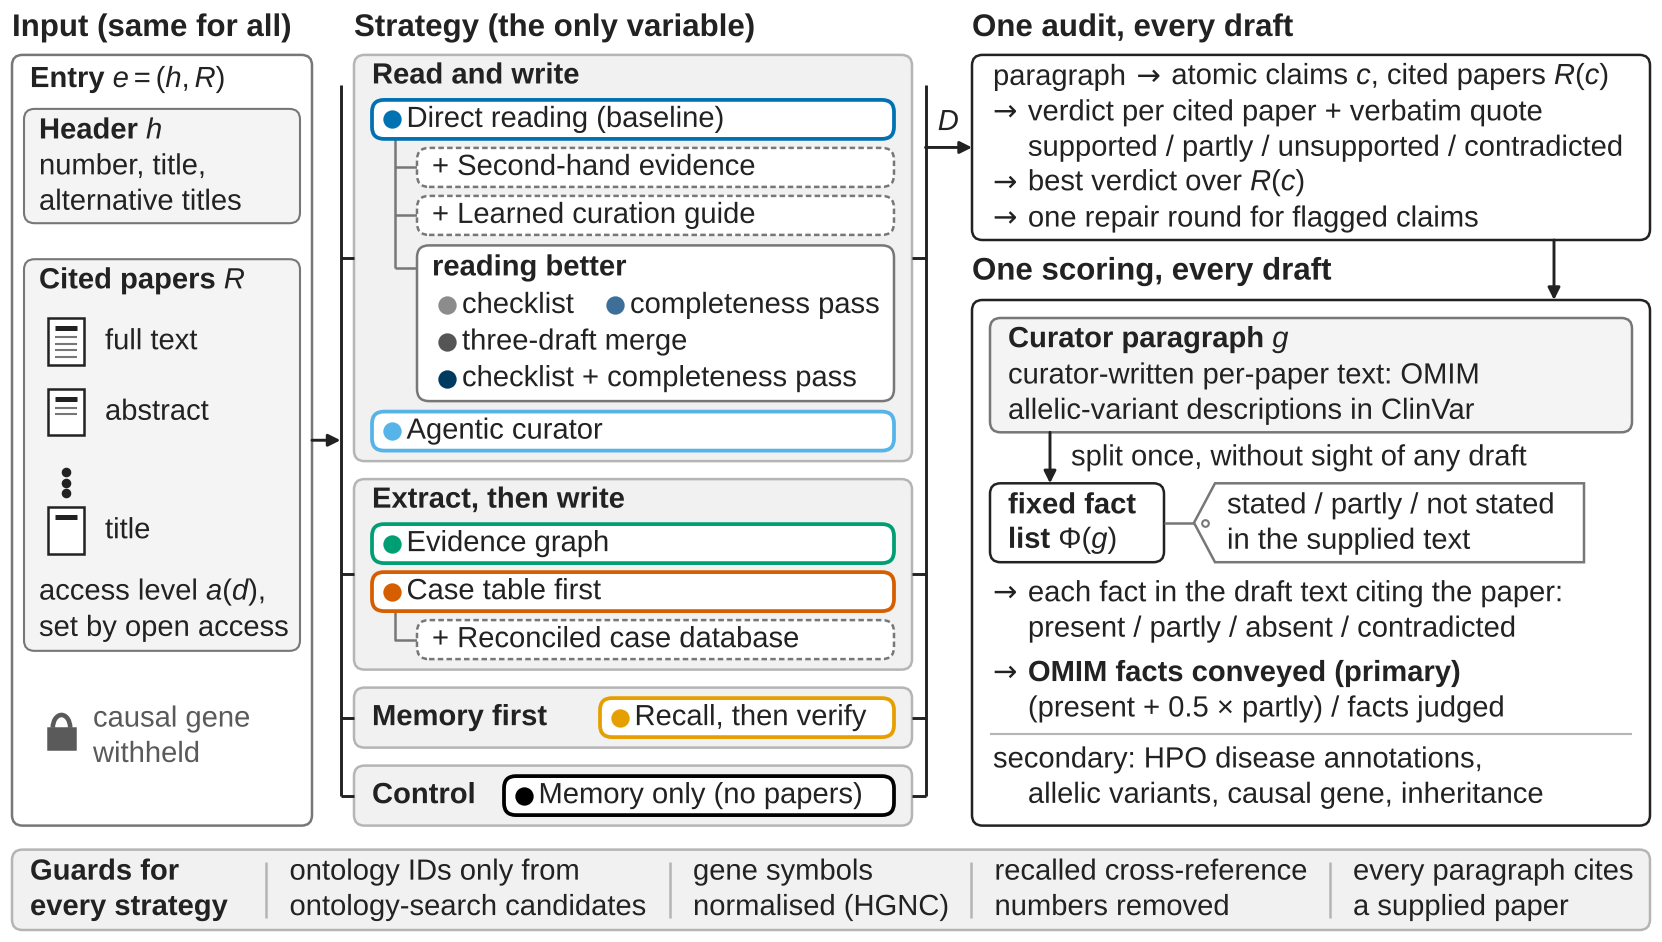
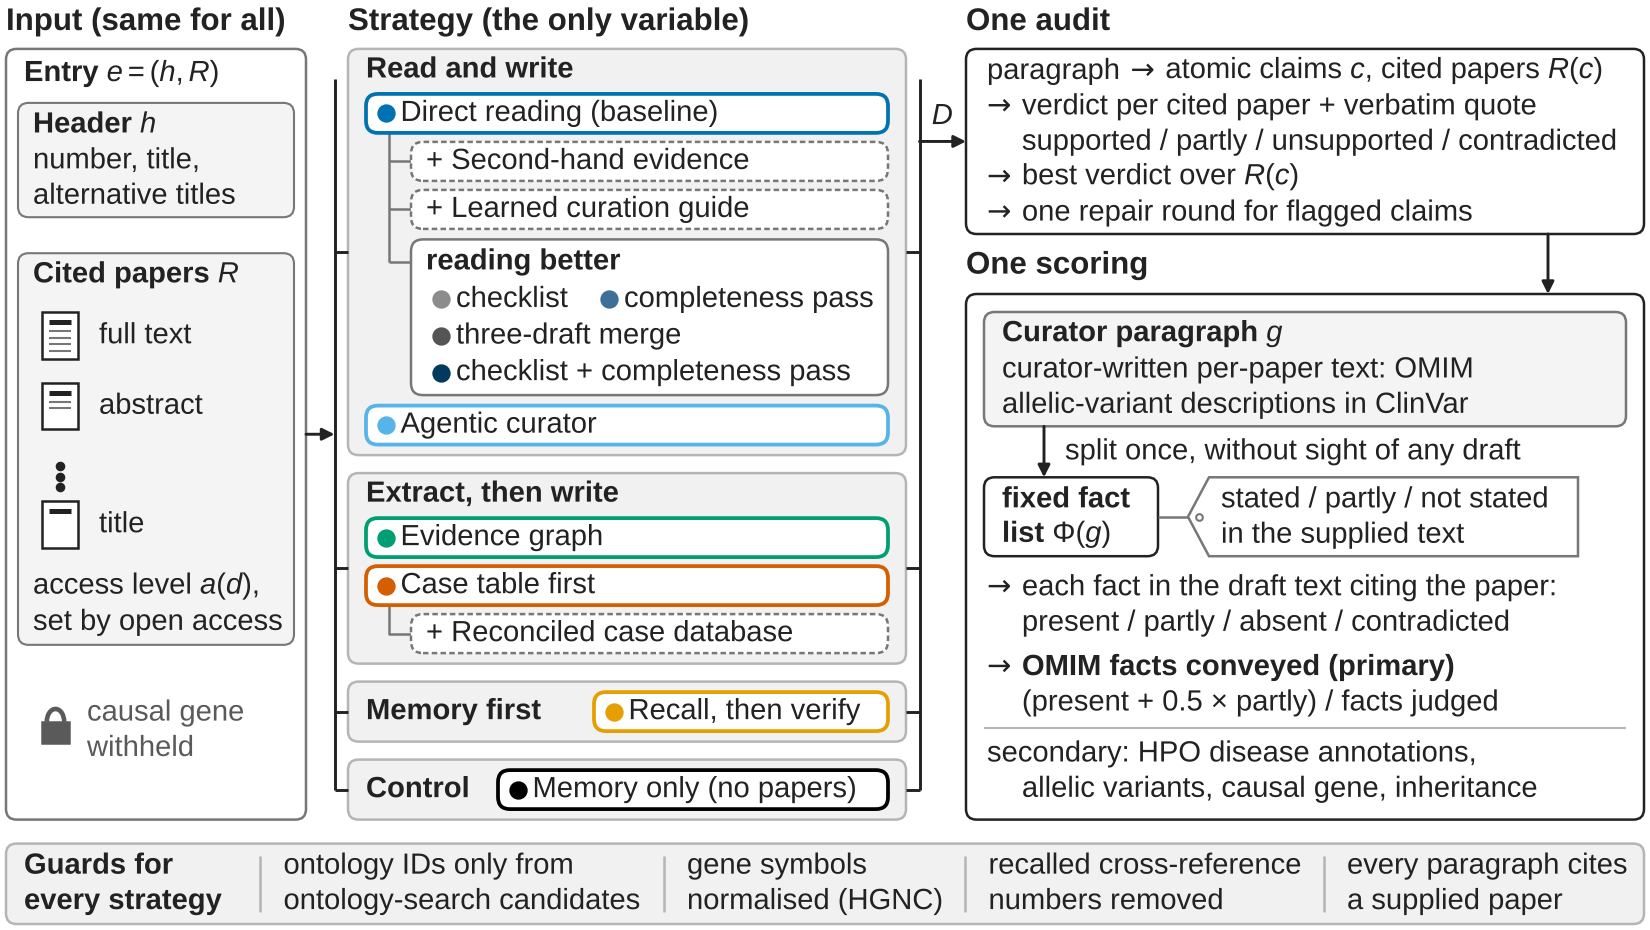
PaperOrchestra run 2: overview diagram; all six figures and their captions indexed
Claude-Session: https://claude.ai/code/session_015Q6ZxFmPf9UHsu6bcaG8Xm

Changed region(s): [[0.0, 0.0, 1.0, 0.9978]]

diff --git a/paper/po_run2/plots/fig_overview/plot.py b/paper/po_run2/plots/fig_overview/plot.py
@@ -97,10 +97,9 @@ CX0, CX1 = 3.22, 5.48
 
 # ====================================================================== Column C: audit and scoring
 TX = CX0 + 0.07   # text left
-IND = 0.0         # continuation indent, set from the arrow width below
-txt(CX0, HEAD, "One audit, every draft", size=FH, weight="bold")
+txt(CX0, HEAD, "One audit", size=FH, weight="bold")
 _t = txt(0, 0, ARROW, family="DejaVu Sans")
-IND = _t.get_window_extent(_R).width / fig.dpi + 0.035
+IND = _t.get_window_extent(_R).width / fig.dpi + 0.035   # continuation indent = arrow + gap
 _t.remove()
 audit = [(["paragraph", ARROW, "atomic claims $c$, cited papers $R(c)$"], 0),
          ([ARROW, "verdict per cited paper + verbatim quote"], 0),
@@ -114,7 +113,7 @@ a_bot = a_top - (0.075 + (len(audit) - 1) * LH + 0.07)
 box(CX0, a_bot, CX1, a_top, ec=INK)
 
 y_sh = a_bot - 0.105
-txt(CX0, y_sh, "One scoring, every draft", size=FH, weight="bold")
+txt(CX0, y_sh, "One scoring", size=FH, weight="bold")
 s_top = a_bot - 0.20
 x_down = CX1 - 0.32
 arrow(x_down, a_bot, x_down, s_top)                       # audited draft -> scoring
@@ -354,7 +353,7 @@ ax.set_ylim(y_min, 0)
 print(f"figsize {W} x {H:.3f} in; bottoms: A {A_CONTENT_BOTTOM:.3f} B {B_BOTTOM:.3f} C {C_BOTTOM:.3f}")
 
 out = os.environ["PO_OUT"]
-fig.savefig(out, dpi=300, facecolor="white", bbox_inches="tight", pad_inches=0.02)
+fig.savefig(out, dpi=300, facecolor="white", bbox_inches="tight", pad_inches=0)
 root, ext = os.path.splitext(out)
 if ext.lower() != ".pdf":
-    fig.savefig(root + ".pdf", facecolor="white", bbox_inches="tight", pad_inches=0.02)
+    fig.savefig(root + ".pdf", facecolor="white", bbox_inches="tight", pad_inches=0)

diff --git a/paper/po_run2/plots/fig_overview/plan.md b/paper/po_run2/plots/fig_overview/plan.md
@@ -78,3 +78,21 @@ the add-on convention, "one model writes every draft", and every result.
 - Add-ons: dashed grey edge, no colour (no palette colour exists for them).
 - Access-level icons black outline with grey body lines. Padlock and "withheld" text mid grey.
 - No legend, no title, no caption or figure number inside the image.
+
+## Revisions after critic rounds
+- Round 1: page icons were blank (their body lines sat under the white page fill) -> lines drawn above the fill;
+  Liberation Sans' arrow glyph prints tiny and on the baseline -> every in-text arrow drawn in DejaVu Sans with
+  continuation lines indented to the text after the arrow; the "D" label was cramped against the fan-in bracket ->
+  gap between strategy and audit columns widened from 0.14 to 0.20 in; "set by open access" sat 0.018 in from its box
+  edge -> column A inner boxes widened; column A content ended 0.3 in above the others -> icon pitch and gaps
+  increased, padlock centred in the remaining space; scoring frame bottom aligned with the strategy column.
+- Round 2: content: "One audit, every draft" overclaimed (the memory-only control is audited without repair, log
+  1.3; the reading-better arms were audited without repair on 20 of 41 entries, log Sec. 15) -> headers are the
+  outline's "One audit" and "One scoring"; the exceptions go to the caption. Presentation: bbox tight with 0.02 in
+  pad made the PNG 5.54 in wide, so 7 pt text would print at about 6.95 pt at text width -> saved with pad 0; the file
+  is exactly 5.5 x 3.10 in (PNG 1650 x 930 px at 300 dpi; PDF 5.5 x 3.10 in, fonts embedded).
+- Round 3: no changes needed.
+
+## Final
+5.5 x 3.10 in (about 16:9), smallest text 7.0 pt (body), headers 7.5 pt bold; 71 text elements, none overlapping,
+none crossing a box edge (checked programmatically from the rendered text extents).
